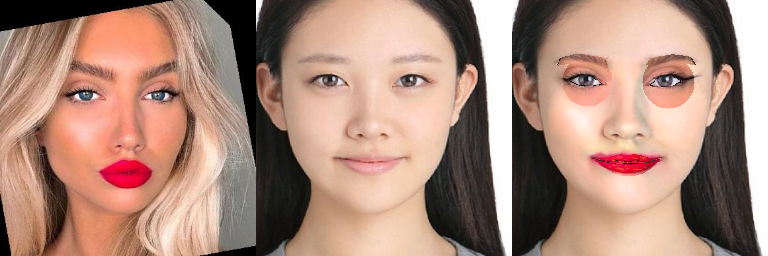
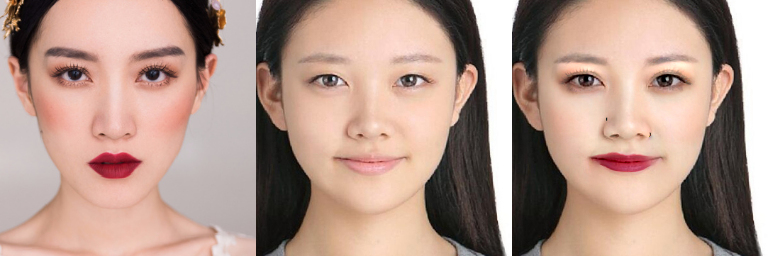
Ground truth

diff --git a/groundtruth/main.py b/groundtruth/main.py
@@ -9,7 +9,7 @@ from skimage.exposure import match_histograms
 import copy
 
 from face_detection import select_face, select_all_faces
-from face_swap import face_swap
+from face_swap import face_swap, face_blend
 from face_parsing import get_face
 
 id_face = [1, 6, 11, 12, 13]
@@ -235,10 +235,10 @@ if __name__ == '__main__':
     seg_non_makeup = []
 
     # RYZEN
-    makeup_directory = "D:/# Raras/GitHub/TA/dataset/RawData/images/makeup/"
-    nonmakeup_directory = "D:/# Raras/GitHub/TA/dataset/RawData/images/non-makeup/"
-    seg_makeup_directory = "D:/# Raras/GitHub/TA/dataset/RawData/segs/makeup/"
-    seg_nonmakeup_directory = "D:/# Raras/GitHub/TA/dataset/RawData/segs/non-makeup/"
+    makeup_directory = "D:/#Raras/GitHub/TA/dataset/RawData/images/makeup/"
+    nonmakeup_directory = "D:/#Raras/GitHub/TA/dataset/RawData/images/non-makeup/"
+    seg_makeup_directory = "D:/#Raras/GitHub/TA/dataset/RawData/segs/makeup/"
+    seg_nonmakeup_directory = "D:/#Raras/GitHub/TA/dataset/RawData/segs/non-makeup/"
 
     # MAC
[1 lines of base64/hex data omitted]
@@ -247,21 +247,21 @@ if __name__ == '__main__':
     # seg_nonmakeup_directory =  "/Users/raras/Documents/Raras/KULIAH/GITHUB/TA/dataset/RawData/segs/non-makeup/"
 
     makeup.append(makeup_directory + "12.png")
-    makeup.append(makeup_directory + "94.png")
-    makeup.append(makeup_directory + "1635.png")
-    makeup.append(makeup_directory + "103.png")
+    makeup.append(makeup_directory + "vFG325.png")
+    makeup.append(makeup_directory + "12.png")
+    makeup.append(makeup_directory + "vFG325.png")
     seg_makeup.append(seg_makeup_directory + "12.png")
-    seg_makeup.append(seg_makeup_directory + "94.png")
-    seg_makeup.append(seg_makeup_directory + "1635.png")
-    seg_makeup.append(seg_makeup_directory + "103.png")
+    seg_makeup.append(seg_makeup_directory + "vFG325.png")
+    seg_makeup.append(seg_makeup_directory + "12.png")
+    seg_makeup.append(seg_makeup_directory + "vFG325.png")
 
-    non_makeup.append(nonmakeup_directory + "vSYYZ25.png")
-    non_makeup.append(nonmakeup_directory + "vSYYZ51.png")
-    non_makeup.append(nonmakeup_directory + "xfsy_0398.png")
     non_makeup.append(nonmakeup_directory + "vSYYZ663.png")
-    seg_non_makeup.append(seg_nonmakeup_directory + "vSYYZ25.png")
-    seg_non_makeup.append(seg_nonmakeup_directory + "vSYYZ51.png")
-    seg_non_makeup.append(seg_nonmakeup_directory + "xfsy_0398.png")
+    non_makeup.append(nonmakeup_directory + "xfsy_0478.png")
+    non_makeup.append(nonmakeup_directory + "xfsy_0478.png")
+    non_makeup.append(nonmakeup_directory + "vSYYZ663.png")
+    seg_non_makeup.append(seg_nonmakeup_directory + "vSYYZ663.png")
+    seg_non_makeup.append(seg_nonmakeup_directory + "xfsy_0478.png")
+    seg_non_makeup.append(seg_nonmakeup_directory + "xfsy_0478.png")
     seg_non_makeup.append(seg_nonmakeup_directory + "vSYYZ663.png")
 
     for i in range (len(makeup)):
@@ -299,20 +299,20 @@ if __name__ == '__main__':
             output = dst_img
             for k, dst_face in dst_faceBoxes.items():
                 # output = getMakeupGroundTruth_warping(src_face, dst_face["face"], dst_face["shape"], seg_dst_img, src_points, dst_face["points"], dst_img)
-                output = face_swap(src_face, dst_face["face"], src_points, dst_face["points"], dst_face["shape"], output, seg_dst_img)
+                output = face_blend(src_face, dst_face["face"], src_points, dst_face["points"], dst_face["shape"], output, seg_dst_img)
             output = cv2.resize(output, dim, interpolation = cv2.INTER_AREA)
             images = [src_img, dst_img, output]
             new_im = cv2.hconcat(images)
 
-            cv2.imshow("new image", new_im)
-            cv2.waitKey(0)
+            # cv2.imshow("new image", new_im)
+            # cv2.waitKey(0)
 
-            img_path = "D:/# Raras/GitHub/TA/groundtruth/coba/warping_{}.png".format(i)
+            img_path = "D:/#Raras/GitHub/TA/groundtruth/coba/warping_{}.png".format(i)
             print(img_path)
             cv2.imwrite(img_path, new_im)
 
         # HISTOGRAM MATCHING
-        img_path2 = "D:/# Raras/GitHub/TA/groundtruth/coba/matching_{}.png".format(i)
+        img_path2 = "D:/#Raras/GitHub/TA/groundtruth/coba/matching_{}.png".format(i)
         result = getMakeupGroundTruth_histogram(dst_img, seg_dst_img, src_img, seg_src_img)
 
         face_true = result[0]

diff --git a/experiment_BG/utils/model_BG.py b/experiment_BG/utils/model_BG.py
@@ -215,15 +215,19 @@ class Model_BG(object):
         x = tf.keras.layers.ZeroPadding2D(padding=(1, 1))(x)
         x = SpectrumNormalization_Conv2D_Layer(x, filters = 64, kernel_size = (4, 4), strides = (2, 2), padding='valid')
         x = LeakyReLU_layer(x)
+
         x = tf.keras.layers.ZeroPadding2D(padding=(1, 1))(x)
         x = SpectrumNormalization_Conv2D_Layer(x, filters = 128, kernel_size = (4, 4), strides = (2, 2), padding='valid')
         x = LeakyReLU_layer(x)
+
         x = tf.keras.layers.ZeroPadding2D(padding=(1, 1))(x)
         x = SpectrumNormalization_Conv2D_Layer(x, filters = 256, kernel_size = (4, 4), strides = (2, 2), padding='valid')
         x = LeakyReLU_layer(x)
+
         x = tf.keras.layers.ZeroPadding2D(padding=(1, 1))(x)
         x = SpectrumNormalization_Conv2D_Layer(x, filters = 512, kernel_size = (4, 4), padding='valid')
         x = LeakyReLU_layer(x)
+        
         x = tf.keras.layers.ZeroPadding2D(padding=(1, 1))(x)
         x = Conv2D_layer(x, filters = 1, kernel_size = (3, 3), padding='valid')
         x = tf.nn.sigmoid(x)
@@ -308,12 +312,12 @@ class Model_BG(object):
                     print('step : {0:04d}'.format(step))
                     print('epoch : {0:04d}, gen loss : {1:.6f}, dis X loss : {2:.6f}, dis Y loss : {2:.6f}'.format(epoch_num, gen_loss.numpy(), dis_loss_X.numpy(), dis_loss_Y.numpy()))
                     print('adversarial : {:.3f}, cycle : {:.3f}, per : {:.3f}, makeup : {:.3f}, background : {:.3f}'.format(loss_list[0].numpy(), loss_list[1].numpy(), loss_list[2].numpy(), loss_list[3].numpy(), loss_list[4].numpy()))
-                    save_images(epoch_num, step, self.batch_size, [batch_features["images1"].numpy(), transfer_image[0].numpy(), batch_labels["whole_face_true"].numpy(), batch_features["images2"].numpy(), transfer_image[1].numpy()], self.pic_save_path)
+                    # save_images(epoch_num, step, self.batch_size, [batch_features["images1"].numpy(), transfer_image[0].numpy(), batch_labels["whole_face_true"].numpy(), batch_features["images2"].numpy(), transfer_image[1].numpy()], self.pic_save_path)
 
                 if(step % 200 == 0):
                     save_images(epoch_num, step, self.batch_size, [batch_features["images1"].numpy(), transfer_image[0].numpy(), batch_labels["whole_face_true"].numpy(), batch_features["images2"].numpy(), transfer_image[1].numpy()], self.pic_save_path)
-                    # save_images(epoch_num, step, self.batch_size, [batch_features["images1"].numpy(), bg_images[1].numpy()],  self.bg_save_path)
-                    # save_images(epoch_num, step, self.batch_size, [batch_labels["face_true"].numpy(), batch_labels["lip_true"].numpy(), batch_labels["eye_true"].numpy()], self.gt_save_path)
+                    save_images(epoch_num, step, self.batch_size, [batch_features["images1"].numpy(), bg_images[1].numpy()],  self.bg_save_path)
+                    save_images(epoch_num, step, self.batch_size, [batch_labels["face_true"].numpy(), batch_labels["lip_true"].numpy(), batch_labels["eye_true"].numpy()], self.gt_save_path)
                 if(step == train_step):
                     break
             model_path = os.path.join(self.model_path, "{epoch:04d}.ckpt".format(epoch = epoch_num))

diff --git a/experiment_BG/utils/model_DRN.py b/experiment_BG/utils/model_DRN.py
@@ -262,13 +262,10 @@ class Model_DRN(object):
                     print("step : {:d}".format(step))
                     print('epoch : {0:04d}, gen loss : {1:.6f}, dis X loss : {2:.6f}, dis Y loss : {2:.6f}'.format(epoch_num, gen_loss.numpy(), dis_loss_X.numpy(), dis_loss_Y.numpy()))
                     print('adversarial : {:.3f}, cycle : {:.3f}, per : {:.3f}, makeup : {:.3f}, background : {:.3f}'.format(loss_list[0].numpy(), loss_list[1].numpy(), loss_list[2].numpy(), loss_list[3].numpy(), loss_list[4].numpy()))
-                    # save_images(epoch_num, step, batch_features["images1"].numpy(), transfer_image[0].numpy(), batch_features["images2"].numpy(), self.pic_save_path)
-                    # save_images(epoch_num, step, batch_features["images1"].numpy(), bg_images[1].numpy(), transfer_image[1].numpy(), self.bg_save_path)
-                    # save_images(epoch_num, step, batch_labels["face_true"].numpy(), batch_labels["lip_true"].numpy(), batch_labels["eye_true"].numpy(), self.gt_save_path)
                 if(step % 200 == 0):
-                    save_images(epoch_num, step, batch_features["images1"].numpy(), transfer_image[0].numpy(), batch_features["images2"].numpy(), self.pic_save_path)
-                    save_images(epoch_num, step, batch_features["images1"].numpy(), bg_images[1].numpy(), transfer_image[1].numpy(), self.bg_save_path)
-                    save_images(epoch_num, step, batch_labels["face_true"].numpy(), batch_labels["lip_true"].numpy(), batch_labels["eye_true"].numpy(), self.gt_save_path)
+                    save_images(epoch_num, step, self.batch_size, [batch_features["images1"].numpy(), transfer_image[0].numpy(), batch_labels["whole_face_true"].numpy(), batch_features["images2"].numpy(), transfer_image[1].numpy()], self.pic_save_path)
+                    save_images(epoch_num, step, self.batch_size, [batch_features["images1"].numpy(), bg_images[1].numpy()],  self.bg_save_path)
+                    save_images(epoch_num, step, self.batch_size, [batch_labels["face_true"].numpy(), batch_labels["lip_true"].numpy(), batch_labels["eye_true"].numpy()], self.gt_save_path)
                 if(step == train_step):
                     break
             model_path = os.path.join(self.model_path, "{epoch:04d}.ckpt".format(epoch = epoch_num))

diff --git a/experiment_BG/train.py b/experiment_BG/train.py
@@ -11,8 +11,8 @@ params = {
         "classes" : {"face" : [1, 6, 11, 12, 13], "brow" : [2, 3], "eye" : [2, 3, 4, 5], "eyeball_l" : [4], "eyeball_r" : [5], "lip" : [7, 9], "non-makeup" : [0, 4, 5, 8, 10], 
                      "hair" : [10], "whole_face" : [1, 2, 3, 4, 5, 6, 7, 8, 9], "face_makeup" : [1, 2, 3, 6, 7, 9]},
 
-        "logs_path" : 'logs/BG/06',
-        "pretrained_model_path" : 'logs/BG/05/checkpoint/0137.ckpt',
+        "logs_path" : 'logs/DRN/13',
+        "pretrained_model_path" : 'logs/DRN/12/checkpoint/0301.ckpt',
 
         "train_dataset_path" : {'source' : r'../dataset/source/Train', 'reference' : r'../dataset/reference/Train'},
         "train_dataset_size" : [779, 1797],
@@ -23,6 +23,6 @@ params = {
 if __name__ == "__main__":
     train_dataset = Dataset(params['train_dataset_path'], image_shape = params['image_shape'], classes = params['classes'], batch_size = params['batch_size'], dataset_size = params['train_dataset_size'], isTraining = True)
 
-    model = Model_BG(input_shape = params['image_shape'], logs_path = params['logs_path'], batch_size = params['batch_size'], classes = params['classes'])
+    model = Model_DRN(input_shape = params['image_shape'], logs_path = params['logs_path'], batch_size = params['batch_size'], classes = params['classes'])
 
     model.train(train_dataset, params["epochs"], pretrained_model_path = params['pretrained_model_path'])

diff --git a/groundtruth/face_swap.py b/groundtruth/face_swap.py
@@ -342,12 +342,18 @@ def face_blend(src_face, dst_face, src_points, dst_points, dst_shape, dst_img, c
 
     ## 3d warp
     warped_src_face = warp_image_3d(src_face, src_points[:end], dst_points[:end], (h_face, w_face))
-    
+    # cv2.imshow("warped_src_face1", warped_src_face)
+    # warped_src_face_pil = Image.fromarray(warped_src_face)
+    # warped_src_face_pil = ImageEnhance.Contrast(warped_src_face_pil)
+    # warped_src_face_pil = warped_src_face_pil.enhance(1.5)
+    # warped_src_face = np.array(warped_src_face_pil)
+    # cv2.imshow("warped_src_face2", warped_src_face)
+    # cv2.waitKey(0)
+
     ## Mask for blending
     mask = mask_from_points((h_face, w_face), dst_points)
     mask_src = np.mean(warped_src_face, axis=2) > 0
     mask = np.asarray(mask * mask_src, dtype=np.uint8)
-    mask = ImageEnhance.Contrast(mask)
     
     ## Poisson Blending
     x, y, w, h = dst_shape
